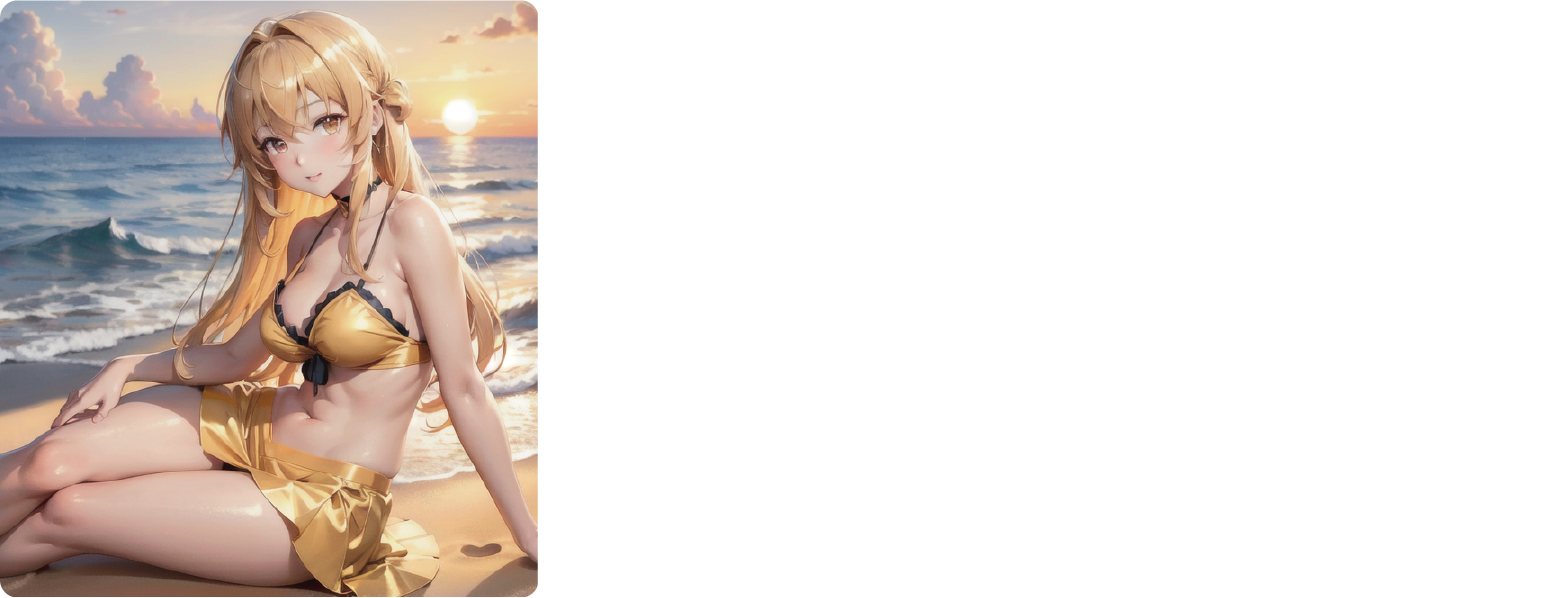
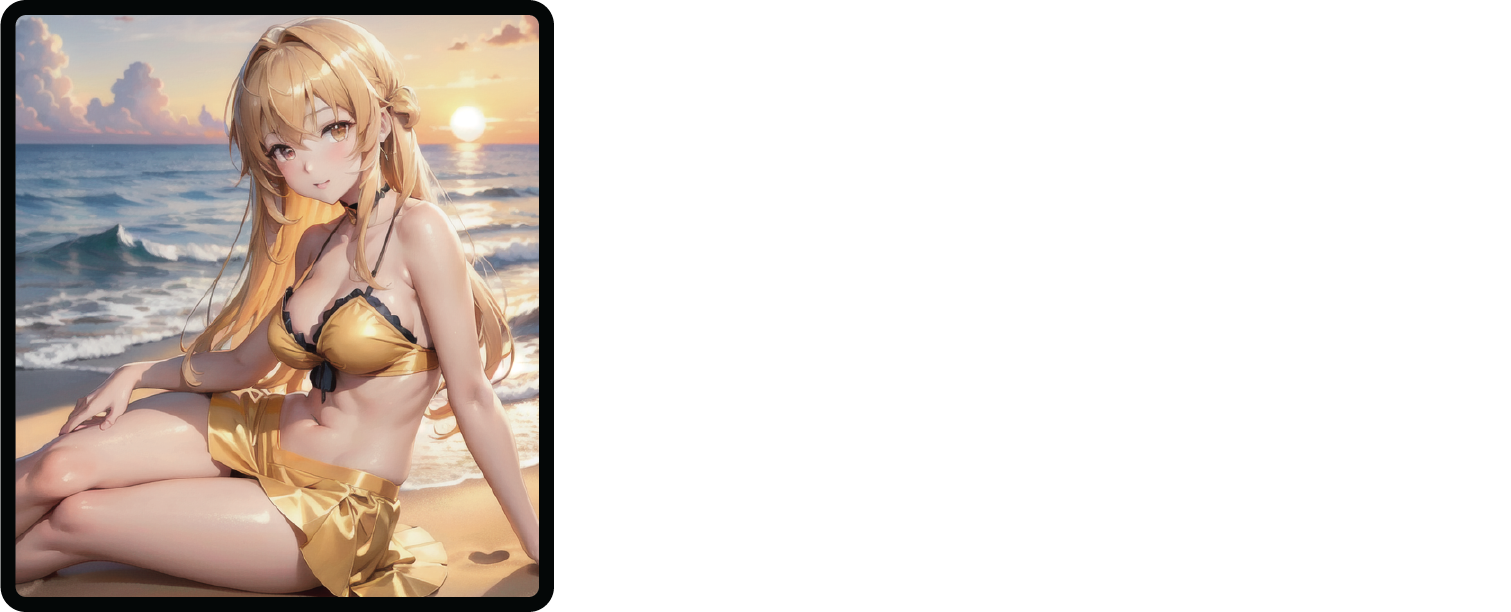
CTA frames

Changed region(s): [[0.0, 0.0, 0.3733, 1.0]]

diff --git a/src/app/landingPageComponents/Home1_cta.tsx b/src/app/landingPageComponents/Home1_cta.tsx
@@ -29,7 +29,7 @@ const Home1_cta = ({ setMode, mode }: ModeProps) => {
         ]
 
     return (
-        <div id='cta' className="relative h-full pt-20 mb-40 bg-gradient-to-b from-black from-20% via-[#282828] via-50% to-black to-95%">
+        <div id='cta' className="relative h-full pt-20 mb-40 bg-gradient-to-b from-black from-10% via-[#282828] via-60% to-black to-95%">
             <img src="/images/cta/cta3.png" className="absolute -top-3 left-0 z-10"/>
             
            
@@ -41,10 +41,12 @@ const Home1_cta = ({ setMode, mode }: ModeProps) => {
                 </div>
 
                 <div className="relative w-10/12 mt-20 self-end flex justify-around items-center">
-                    {/* <img src="/images/cta/ctaDrip.png" className="absolute -top-[20%] right-0 -z-9"/> */}
-                    {/* <img src='/images/photoImgs/photo3.png' className="w-[450px] h-[500px] object-cover object-top rounded-xl"/> */}
-                    
+                    <div className="absolute top-[5%] left-[16%] ">
+                        <img src='/images/cta/ctaFrame4.png' />
+                    </div>  
+
                     <div className="w-[450px] h-[500px] object-cover rounded-xl z-5">
+                        
                         <Carousel
                             showArrows={true} 
                             showThumbs={false} 
@@ -73,10 +75,10 @@ const Home1_cta = ({ setMode, mode }: ModeProps) => {
                     </div>
 
                     <div className="w-1/2 z-50">
-                        <p className="font-serif mt-4 text-5xl font-bold">Photorealistic</p>
-                        <p className="w-10/12 text-2xl mt-8">Welcome to a world where art isn&lsquo;t just seen, but deeply felt. Where the lines blur between reality and canvas. Our bespoke photorealistic portraits aren&lsquo;t just images, they&lsquo;re narratives, crafted with skill and heart, capturing the essence of your story with breath-taking accuracy and depth.</p>
+                        <p className="font-serif mt-4 text-4xl font-bold">Photorealistic</p>
+                        <p className="w-10/12 text-xl font-light mt-8">Welcome to a world where art isn&lsquo;t just seen, but deeply felt. Where the lines blur between reality and canvas. Our bespoke photorealistic portraits aren&lsquo;t just images, they&lsquo;re narratives, crafted with skill and heart, capturing the essence of your story with breath-taking accuracy and depth.</p>
                         <div
-                            className='w-1/3 mt-8 py-2 px-4 border-2 border-[#0075FF] rounded-xl text-white text-center text-4xl bg-[#0075FF]/50 cursor-pointer hover:bg-[#0075FF] hover:scale-105'
+                            className='w-1/3 mt-8 py-2 px-4 border-2 border-[#0075FF] rounded-xl text-white text-center text-2xl bg-[#0075FF]/50 cursor-pointer hover:bg-[#0075FF] hover:scale-105'
                             onClick={() => setMode('Photorealistic')}
                         >
                             Customize
@@ -85,12 +87,14 @@ const Home1_cta = ({ setMode, mode }: ModeProps) => {
                 </div>
 
                 <div className="relative w-10/12 mt-20 ml-20 self-start flex justify-around items-center">
-                    <img src="/images/cta/ctaSmall.png" className="absolute -top-[20%] left-[30%]"/>
+                    <div className="absolute top-[5%] right-0">
+                        <img src='/images/cta/ctaFrame3.png' />
+                    </div>  
                     <div className="w-1/2">
-                        <p className="font-serif text-5xl font-bold">Anime</p>
-                        <p className="text-2xl mt-8">Ever dreamed of stepping into your favorite anime world, becoming a part of its vibrant colors, intricate lines, and ethereal aesthetics? We can help bring this dream to life! Our gifted artists will transform your image into a custom anime-style portrait that is unique, vibrant, and truly yours. Let us capture your essence in a style that resonates with your love for the world of anime. Whether it&lsquo;s your favorite character or something completely original, let&lsquo;s turn the ordinary into extraordinary!</p>
+                        <p className="font-serif text-4xl font-bold">Anime</p>
+                        <p className="text-xl font-light mt-8">Ever dreamed of stepping into your favorite anime world, becoming a part of its vibrant colors, intricate lines, and ethereal aesthetics? We can help bring this dream to life! Our gifted artists will transform your image into a custom anime-style portrait that is unique, vibrant, and truly yours. Let us capture your essence in a style that resonates with your love for the world of anime. Whether it&lsquo;s your favorite character or something completely original, let&lsquo;s turn the ordinary into extraordinary!</p>
                         <div
-                            className='w-1/3 mt-8 py-2 px-4 border-2 border-[#0075FF] rounded-xl text-white text-center text-4xl bg-[#0075FF]/50 cursor-pointer hover:bg-[#0075FF] hover:scale-105'
+                            className='w-1/3 mt-8 py-2 px-4 border-2 border-[#0075FF] rounded-xl text-white text-center text-2xl bg-[#0075FF]/50 cursor-pointer hover:bg-[#0075FF] hover:scale-105'
                             onClick={() => setMode('Anime')}
                         >
                             Customize
@@ -108,7 +112,7 @@ const Home1_cta = ({ setMode, mode }: ModeProps) => {
                         >
                             {type2.map((el, i) => {
                                     return (
-                                        <img key={i} src={`${el}`} className="w-[450px] h-[500px] object-cover object-top rounded-xl"/>
+                                        <img key={i} src={`${el}`} className="w-[450px] h-[500px] object-cover object-top rounded-xl "/>
                                         // <div key={i} className='relative w-[450px] h-[500px] mx-auto object-cover rounded-xl'>
                                         //     <Image
                                         //         className="rounded-xl" 
@@ -128,11 +132,13 @@ const Home1_cta = ({ setMode, mode }: ModeProps) => {
                 </div>
 
                 <div className="relative w-10/12 mt-20 mr-20 self-end flex justify-around items-center">
-                    {/* <img src="/images/cta/ctaBottom.png" className="absolute top-[100%] -right-[6%]"/> */}
+                    <div className="absolute -bottom-[24%] -left-[4.5%]">
+                        <img src='/images/cta/ctaFrameNSFW.png' />
+                    </div> 
                     <div className="w-full">
                         <img src="/images/cta/nsfw.png" />
                         <div
-                            className='absolute bottom-10 left-[42%] w-1/6 mt-8 py-2 px-4 border-2 border-[#0075FF] rounded-xl text-white text-center text-4xl bg-[#0075FF]/50 cursor-pointer hover:bg-[#0075FF] hover:scale-105'
+                            className='absolute bottom-[21%] left-[43.5%] w-1/6 mt-8 py-2 px-4 border-2 border-[#0075FF] rounded-xl text-white text-center text-2xl bg-[#0075FF]/50 cursor-pointer hover:bg-[#0075FF] hover:scale-105'
                             onClick={() => setMode('NSFW')}
                         >
                             Customize

diff --git a/src/app/landingPageComponents/categories/styles.css b/src/app/landingPageComponents/categories/styles.css
@@ -74,7 +74,13 @@
     height: 420px;
   }
 
+  .carousel-root {
+    border: 15px black solid;
+    border-radius: 20px;
+  }
+
   .carousel.carousel-slider .control-next {
+    z-index: 50;
     height: 60px;
     margin: auto 0;
     background: rgba(255, 255, 255, 0.8);
